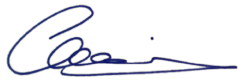
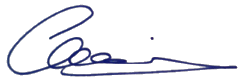
Founder: transparent sig bg, constrain sig width, tighten heading gap

diff --git a/style.css b/style.css
@@ -1236,8 +1236,9 @@ body.cursor-hover .cursor-dot { width: 0; height: 0; }
 .founder-sig-img {
   height: 52px;
   width: auto;
+  max-width: 200px;
   display: block;
-  opacity: 0.45;
+  opacity: 0.6;
 }
 .founder-heading {
   font-family: var(--font-display);
@@ -1247,7 +1248,7 @@ body.cursor-hover .cursor-dot { width: 0; height: 0; }
   letter-spacing: -0.03em;
   text-transform: uppercase;
   color: var(--neutral-900);
-  margin: 16px 0 18px;
+  margin: 16px 0 8px;
 }
 .founder-accent { color: var(--teal-400); font-style: italic; }
 .founder-body { display: flex; flex-direction: column; gap: 20px; }
